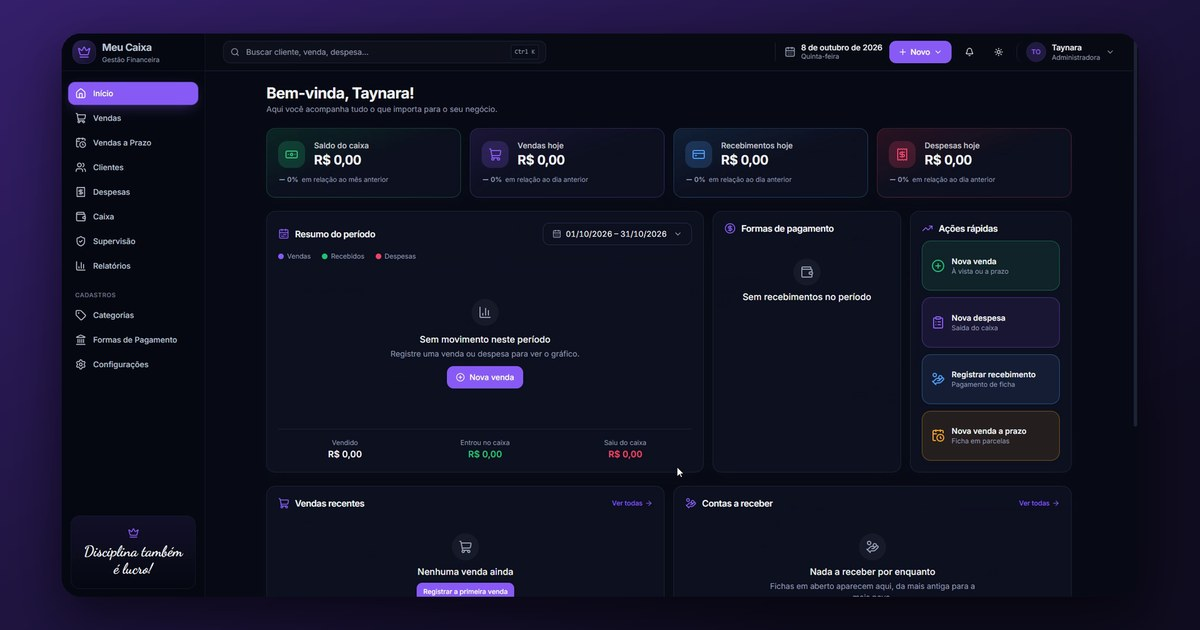
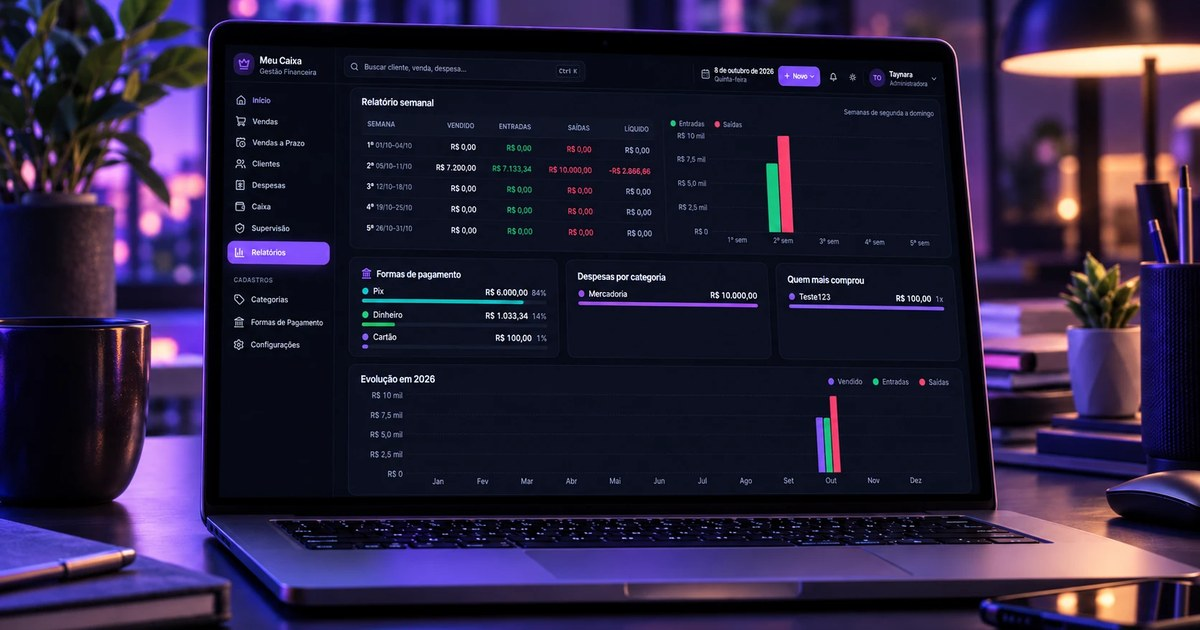
feat: Meu Caixa com capa e hover novos, ao lado da Essencial

diff --git a/src/data/projects.ts b/src/data/projects.ts
@@ -22,7 +22,7 @@ import imgUsfit from '../assets/projetos/figma/usfit.webp'
 import imgEssencialPerfumaria from '../assets/projetos/figma/essencial-perfumaria.webp'
 import imgEssencialPerfumariaPainel from '../assets/projetos/figma/essencial-perfumaria-painel.webp'
 import imgMeuCaixa from '../assets/projetos/figma/meu-caixa.webp'
-import imgMeuCaixaCaixa from '../assets/projetos/figma/meu-caixa-caixa.webp'
+import imgMeuCaixaInicio from '../assets/projetos/figma/meu-caixa-inicio.webp'
 import imgNexo from '../assets/projetos/figma/nexo.webp'
 import imgNexoSolicitacoes from '../assets/projetos/figma/nexo-solicitacoes.webp'
 import imgOrbit from '../assets/projetos/figma/orbit-creators.webp'
@@ -75,6 +75,7 @@ export interface Project {
 // desenhado e construído de ponta a ponta), em destaque de propósito.
 export const allProjects: Project[] = [
   { image: imgEssencialPerfumaria, hoverImage: imgEssencialPerfumariaPainel, title: 'Essencial Perfumaria', categoryKey: 'ux-ui-design', kinds: ['website', 'dashboard', 'ecommerce'], segments: ['b2c'], externalUrl: 'https://essencial-perfumaria.vercel.app' },
+  { image: imgMeuCaixa, hoverImage: imgMeuCaixaInicio, title: 'Meu Caixa', categoryKey: 'ux-ui-design', kinds: ['dashboard'], segments: ['b2b'], detailSlug: 'meu-caixa-ux' },
   { image: imgCatalogoThaysa, hoverImage: imgCatalogoThaysaInicio, title: 'Catálogo Thaysa Ribeiro', categoryKey: 'ux-ui-design', kinds: ['app'], segments: ['b2c'], externalUrl: 'https://catalogo-thaysa.vercel.app', mobileOnly: true },
   { image: imgAtelieDiane, title: 'Ateliê Diane Almeida', categoryKey: 'ux-ui-design', kinds: ['website', 'dashboard'], segments: ['b2c'], detailSlug: 'atelie-diane-almeida-ui', hidden: true },
   { image: imgGestaoConecta360, hoverImage: imgGestaoConecta360Detalhe, title: 'Gestão Conecta 360º', categoryKey: 'ux-ui-design', kinds: ['dashboard'], segments: ['b2b', 'saas'], detailSlug: 'conecta-360-ux' },
@@ -94,7 +95,6 @@ export const allProjects: Project[] = [
   { image: imgAura, hoverImage: imgAuraHome, title: 'Aura', categoryKey: 'ux-ui-design', kinds: ['app', 'ecommerce'], segments: ['b2c'] },
   { image: imgOrbit, hoverImage: imgOrbitCalendario, title: 'Orbit Creators', categoryKey: 'ux-ui-design', kinds: ['dashboard'] },
   { image: imgNexo, hoverImage: imgNexoSolicitacoes, title: 'Nexo', categoryKey: 'ux-ui-design', kinds: ['dashboard'], segments: ['fintech', 'b2b'] },
-  { image: imgMeuCaixa, hoverImage: imgMeuCaixaCaixa, title: 'Meu Caixa', categoryKey: 'ux-ui-design', kinds: ['dashboard'], segments: ['b2b'], detailSlug: 'meu-caixa-ux' },
 ]
 
 // Lista que o site mostra: tira os projetos escondidos. `allProjects` segue
